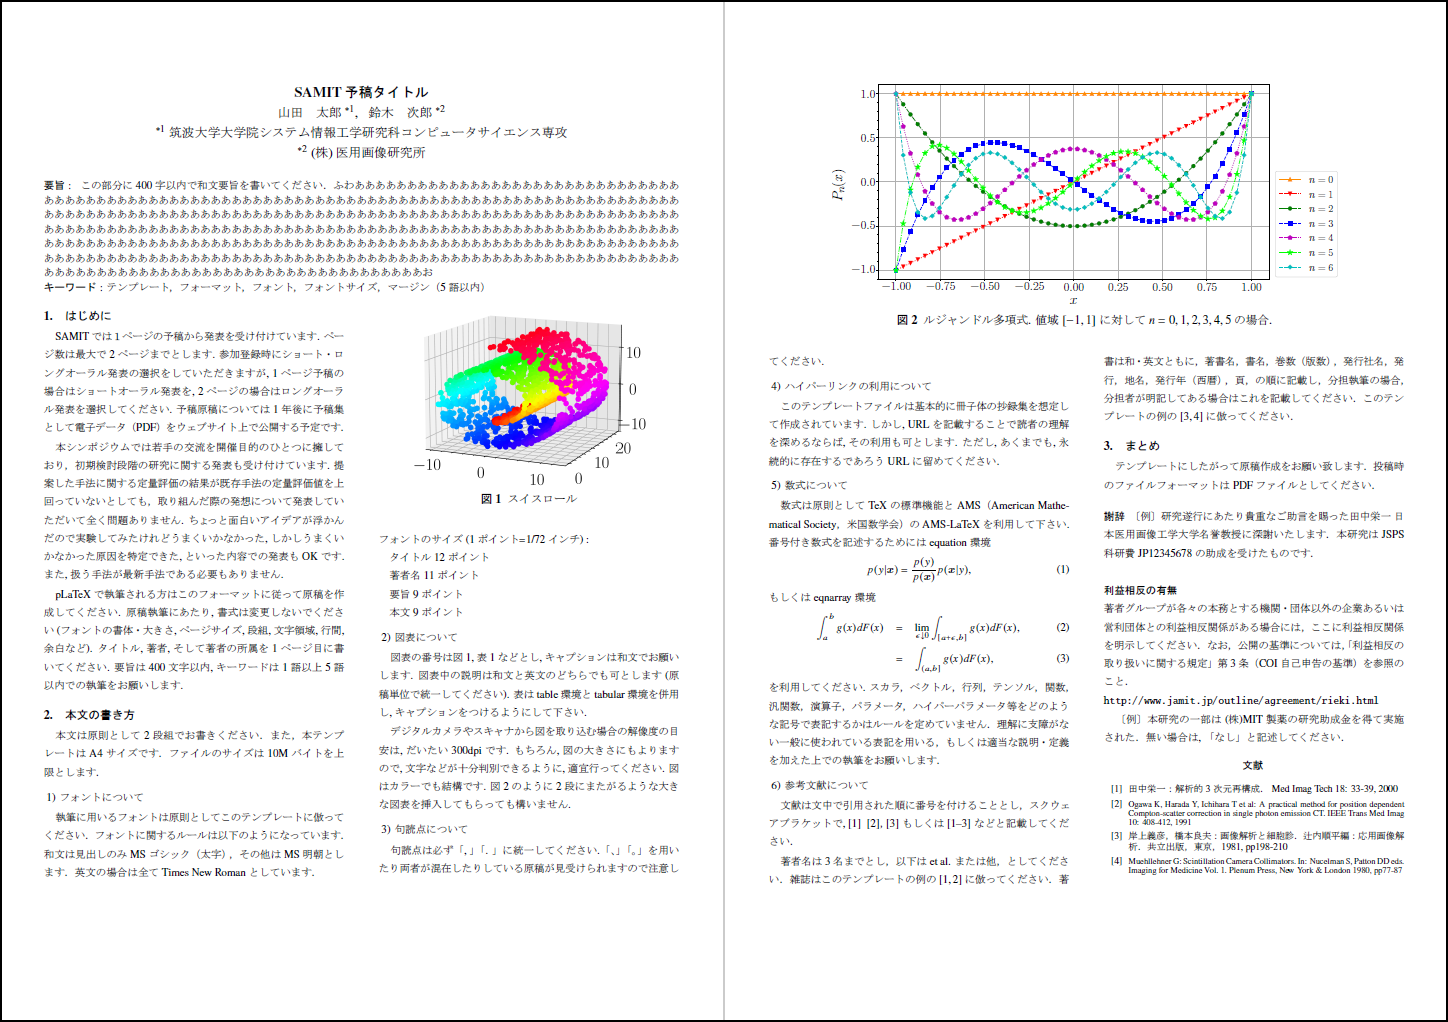
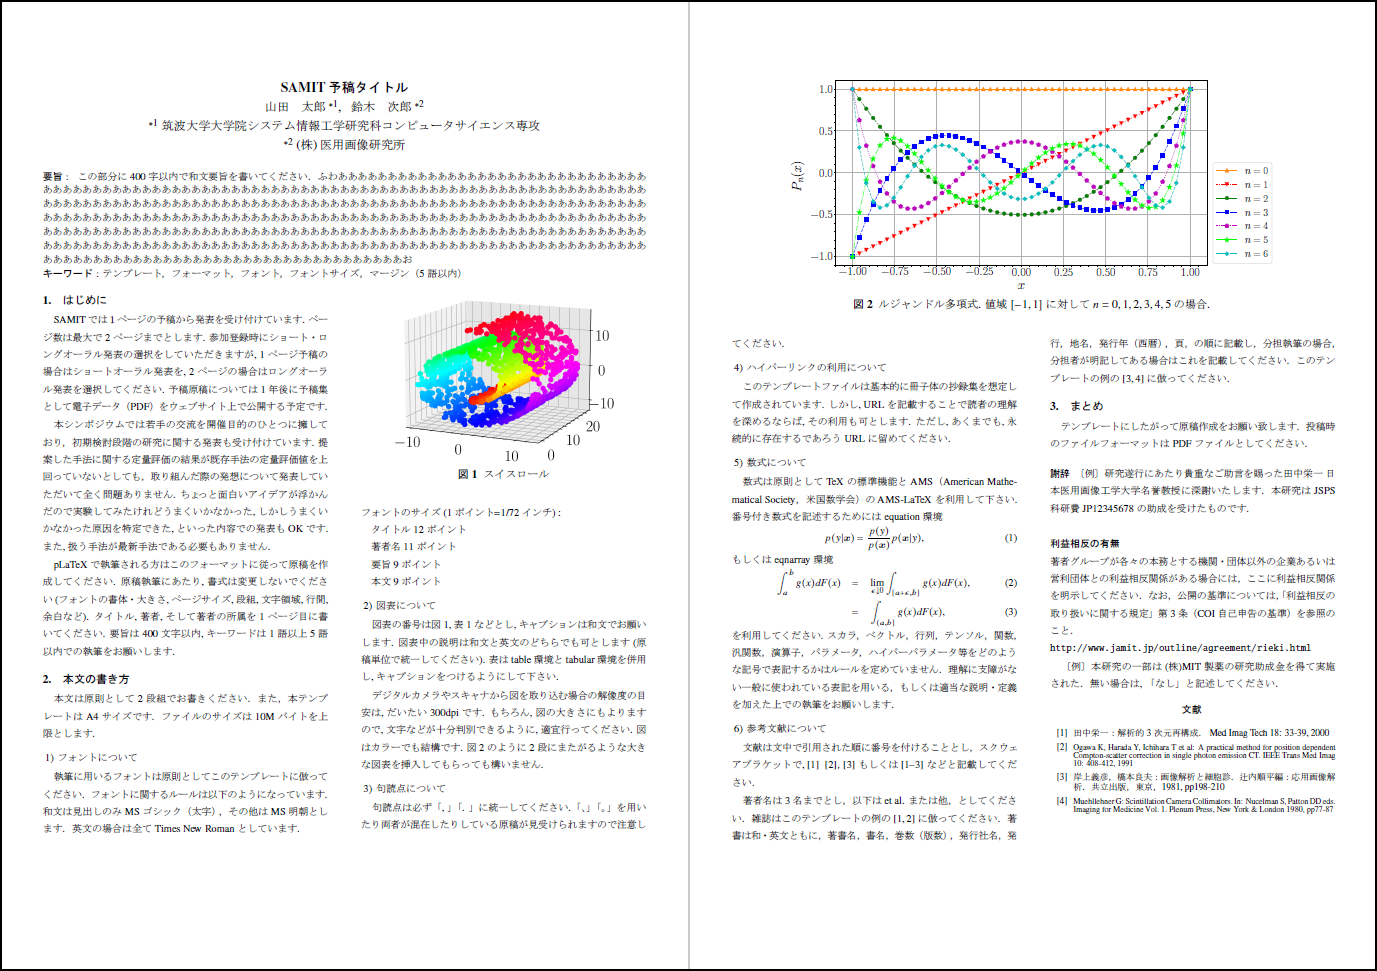
fix: margins of Eqs

diff --git a/README.md b/README.md
@@ -1,21 +1,24 @@
 # JAMIT若手医用画像工学シンポジウム 原稿テンプレート
-pLaTeX2eを用いて日本語で原稿執筆を行うためのテンプレートファイル. 日本医用画像工学会大会の予稿原稿集のフォーマット（2022年～）に準拠した仕様となっており, 違いはタイトル・著者・所属の英語表記がない点です. SAMIT2023のテンプレート（Wordファイル）と同じ仕様です. 
+pLaTeX2eを用いて日本語で原稿執筆を行うためのテンプレートファイル．日本医用画像工学会大会の予稿原稿集のフォーマット（2022年～）に準拠した仕様となっており, 主な違いは以下になります．
+- タイトル・著者・所属の英語表記を除去
+- 数式前後の空白スペースを若干広めに設定
+- 数式フォントはTimes New Romanを利用
+- 数式フォントのサイズは本文と同じ設定
 
 
 ## How to use 
-使用方法については同梱のソースファイル `template.tex` と生成された `template.pdf` を参照してください. 
-配布ファイルの文字コードはeuc-jpです. いずれはUTF-8に対応する予定. 
+使用方法については同梱のソースファイル `template.tex` と生成された `template.pdf` を参照してください．配布ファイルの文字コードはeuc-jpです. いずれはUTF-8に対応する予定．
 
 <img alt="Screenshot of the template." src="./eg.png" style="max-width: 100%" />
 
 
 ## Compile
-`samit.cls` や画像ファイルがソースファイルと同じディレクトリ下にある状態で以下のコマンドを実行してください. 
+`samit.cls` や画像ファイルがソースファイルと同じディレクトリ下にある状態で以下のコマンドを実行してください．
 ```  
 $ platex --kanji=euc-jp template.tex
 $ dvipdfmx template.dvi
 ```
-文献情報や図表などに関する相互参照を更新する際には、2回 platex でコンパイルしてからpdfを生成（dvipdfmxを実行）するようにしてください. 
+文献情報や図表などに関する相互参照を更新する際には，2回 platex でコンパイルしてからpdfを生成（dvipdfmxを実行）するようにしてください．
 
 ## Change log
 
